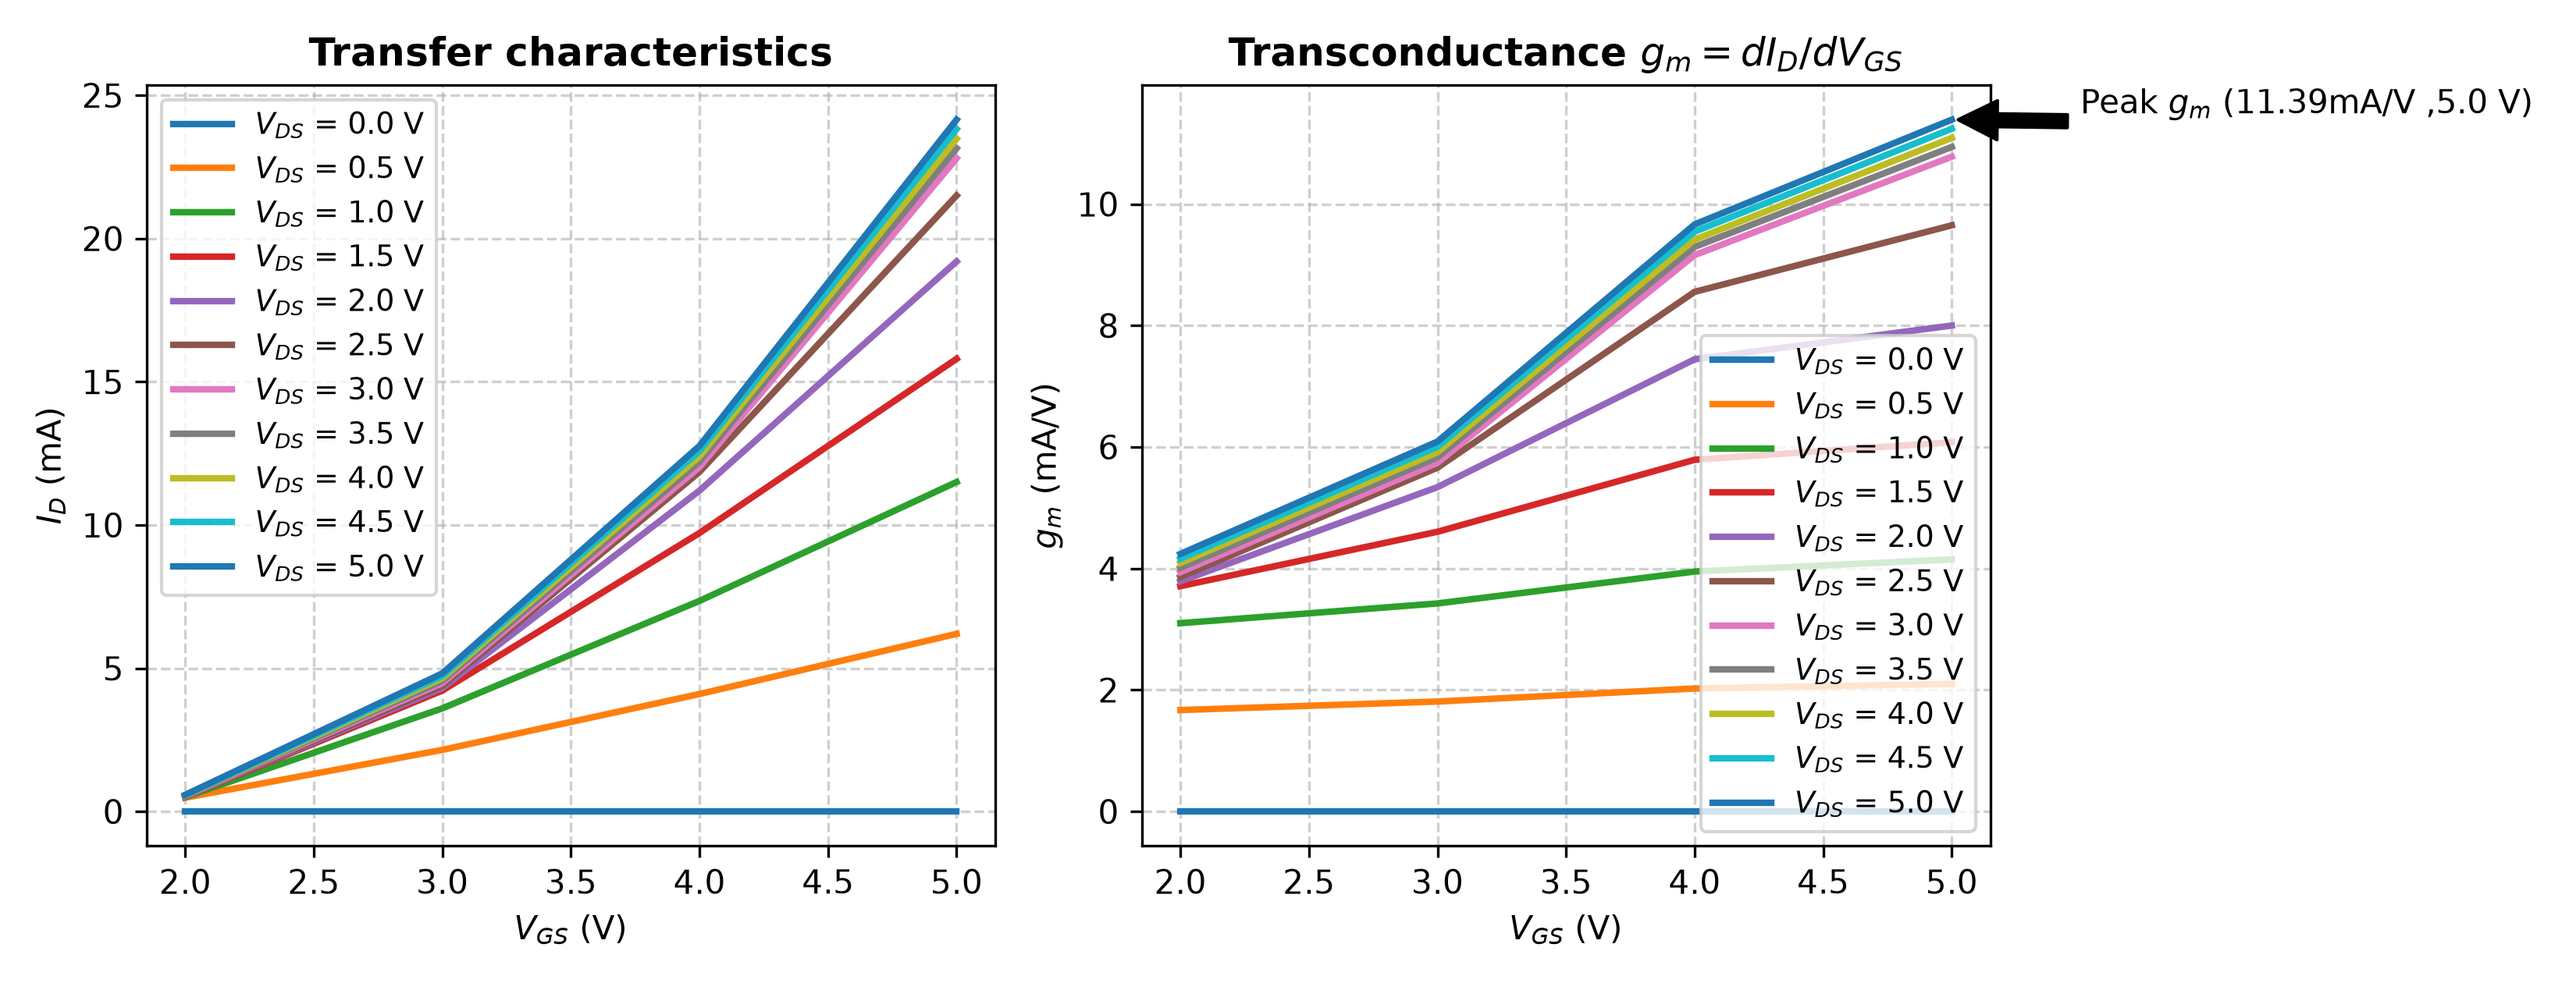
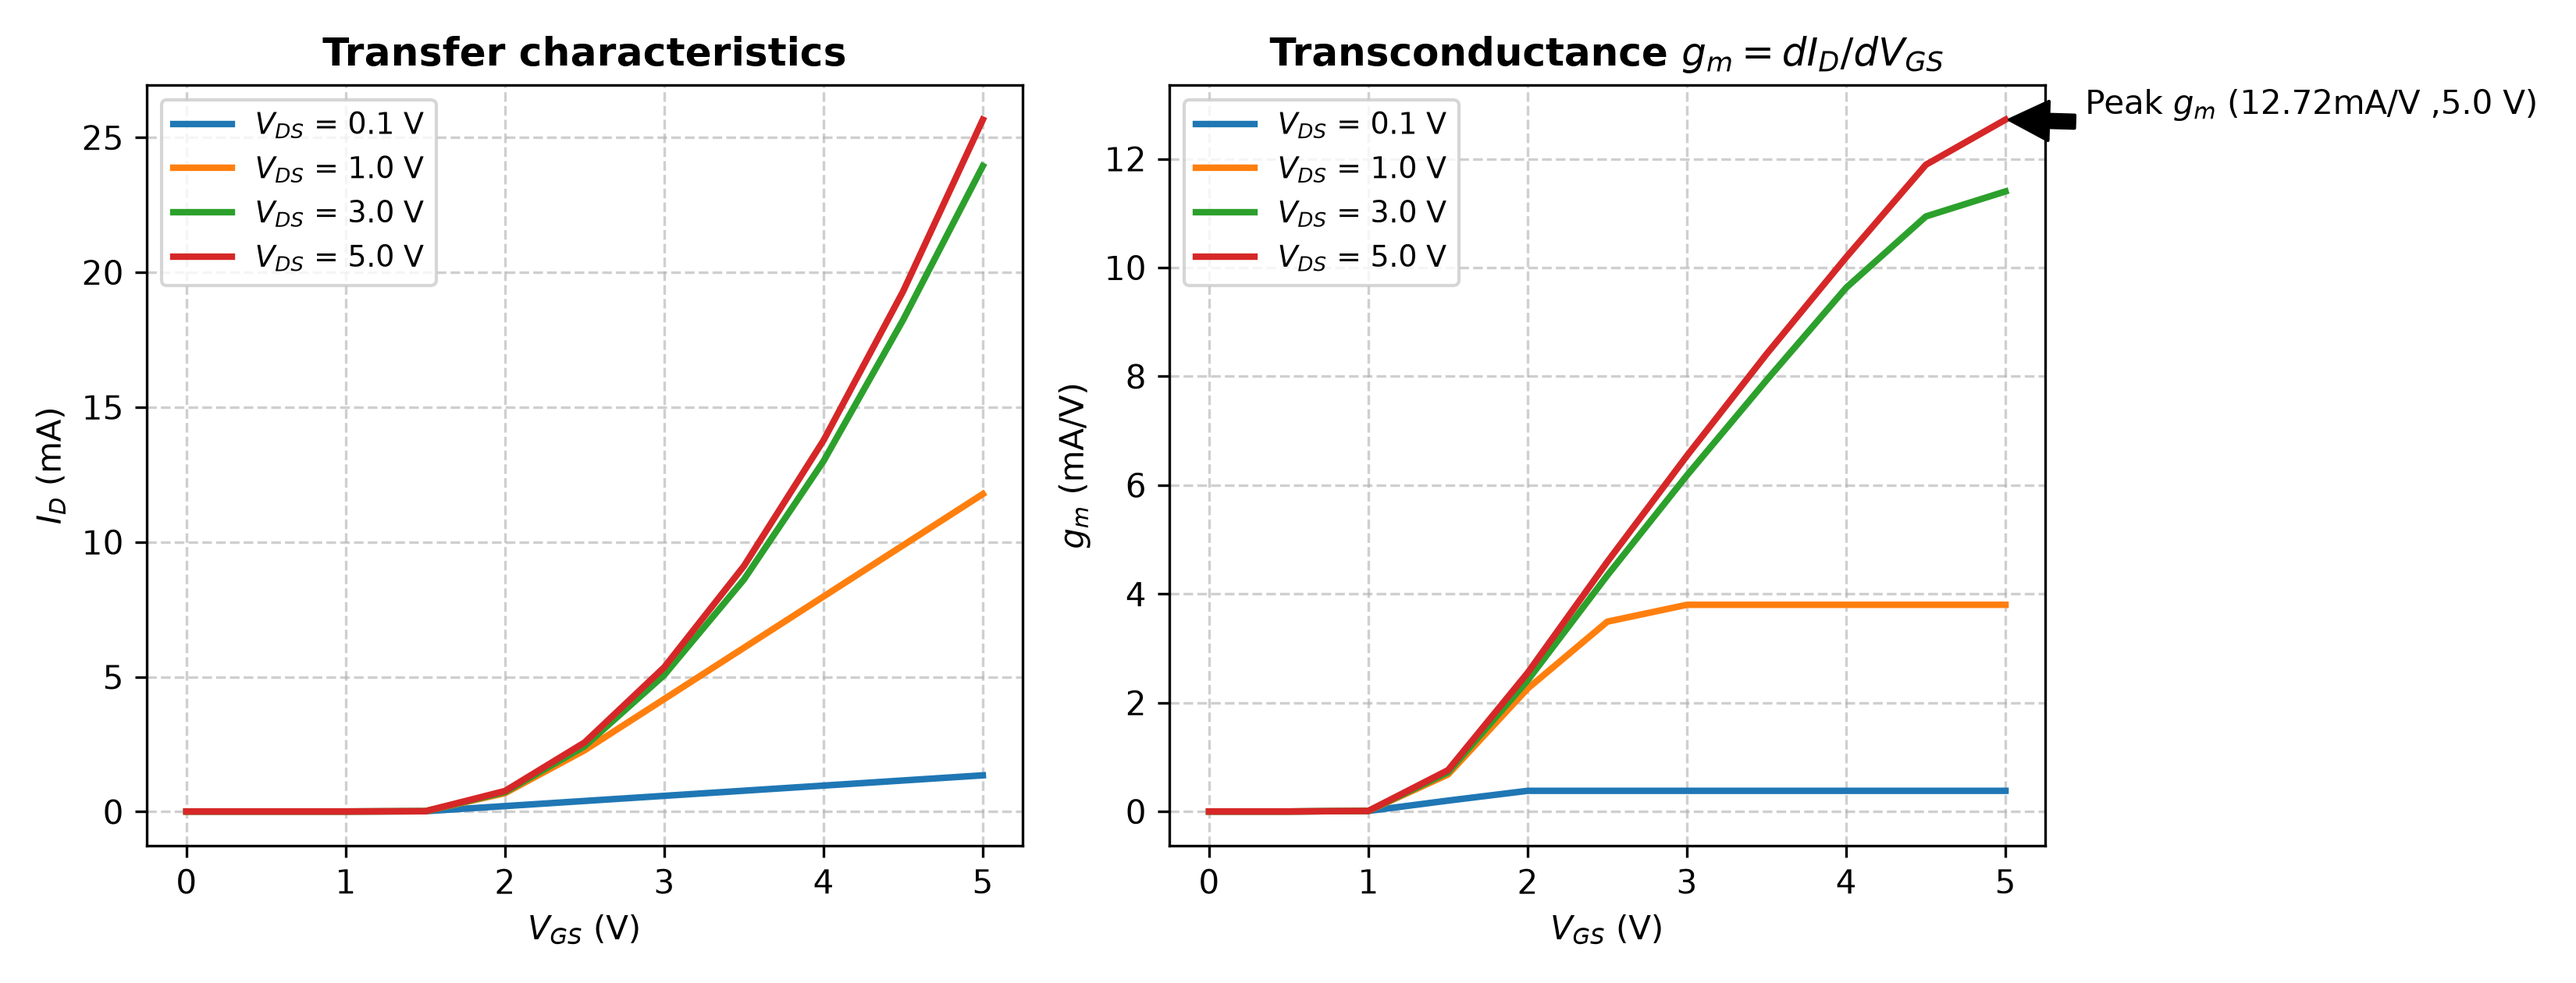
task 11 done

diff --git a/t12.py b/t12.py
@@ -1,0 +1,60 @@
+import pandas as pd
+import matplotlib.pyplot as plt
+import numpy as np
+df = pd.read_csv(r'ed-1/MOSFET_ID_VDS.csv')
+
+tox = 10e-9 # 10 nm
+Na = 1e16 # 1e17 cm^-3
+qf = 1e12 # cm^-2
+w = 4*1e-6 # 4 um
+L = 0.18 * 1e-6 # 0.18 um
+un = 400 # 400 cm^2/Vs
+alGate = 4.1
+
+#SPICE-level 1
+vGs = [1,2,3]
+vDs = np.linspace(0, 4, 50)
+i_d = np.array([])
+for v_gs in vGs:
+    for v_ds in vDs:
+        if v_gs < 1:
+            i_d = np.append(i_d, 0)
+        elif v_gs >= 1 and v_ds <= (v_gs - 1):
+            i_d = np.append(i_d, un * w / L * (tox * alGate) * ((v_gs - 1) * v_ds - 0.5 * v_ds ** 2))
+        else:
+            i_d = np.append(i_d, un * w / L * (tox * alGate) * (0.5 * (v_gs - 1) ** 2))
+
+    plt.plot(vDs, i_d, label=f'$V_{{GS}}$ = {v_gs} V', linewidth=2)
+    i_d = np.array([])
+    
+plt.xlabel('$V_{DS}$ (V)')
+plt.ylabel('$I_D$ (mA)')
+plt.title('Output characteristics using spice - 1')
+plt.legend()
+plt.grid(True, linestyle='--', alpha=0.6)
+plt.tight_layout()
+plt.savefig("task12.png", dpi=350)
+plt.show()
+
+# spice level 3
+plt.figure(figsize=(10, 6)) # a new window, 10 x 6 inches
+for v_gs in vGs:
+    for v_ds in vDs:
+        if v_gs < 1:
+            i_d = np.append(i_d, 0)
+        elif v_gs >= 1 and v_ds <= (v_gs - 1):
+            i_d = np.append(i_d, un * w / L * (tox * alGate) * ((v_gs - 1) * v_ds - 0.5 * v_ds ** 2))
+        else:
+            i_d = np.append(i_d, un * w / L * (tox * alGate) * (0.5 * (v_gs - 1) ** 2))
+
+    plt.plot(vDs, i_d, label=f'$V_{{GS}}$ = {v_gs} V', linewidth=2)
+    i_d = np.array([])
+    
+plt.xlabel('$V_{DS}$ (V)')
+plt.ylabel('$I_D$ (mA)')
+plt.title('Output characteristics using spice - 1')
+plt.legend()
+plt.grid(True, linestyle='--', alpha=0.6)
+plt.tight_layout()
+plt.savefig("task12.png", dpi=350)
+plt.show()

diff --git a/t9.py b/t9.py
@@ -2,7 +2,7 @@ import pandas as pd
 import matplotlib.pyplot as plt
 import numpy as np
 
-df = pd.read_csv(r'ed-1/MOSFET_ID_VDS.csv')
+df = pd.read_csv(r'ed-1/MOSFET_ID_VGS.csv')
 
 fig, ax = plt.subplots(1,2,figsize=(11, 4.2)) 
 v_gs_gm_max = 0
@@ -11,7 +11,7 @@ v_t = np.array([]) # threshold voltage array
 for v_ds, g in df.groupby('V_DS (V)'):
     g = g.sort_values('V_GS (V)') # ALWAYS sort the sweep axis
     gm = np.gradient(g['I_D (mA)'], g['V_GS (V)']) # numerical derivative
-    v_t = np.append(v_t, np.polyfit(g['V_GS (V)'], g['I_D (mA)'], 2)[0]) 
+    v_t = np.append(v_t, np.polyfit(g['V_GS (V)'], g['I_D (mA)'], 1)[0]) 
     if gm_max < gm.max():
         gm_max = gm.max()
         v_gs_gm_max = g['V_GS (V)'].iloc[gm.argmax()]

diff --git a/readme.md b/readme.md
@@ -64,12 +64,14 @@ max     5.00000   5.000000  24.150000
 ```python
     v_t = np.array([])
     for v_ds, g in df.groupby('V_DS (V)'):
-        v_t = np.append(v_t, np.polyfit(g['V_S (V)'], g['I_D (mA)'], 2)[0])
+        v_t = np.append(v_t, np.polyfit(g['V_GS (V)'], g['I_D (mA)'], 1)[0])
     print(round(v_t.mean(), 2) ,' V is the average threshold voltage')
 
 ```
-Output = 1.11  V is the average threshold voltage
+Output = 3.07  V is the average threshold voltage
 
 # Task - 11 
 
 ![Task 11](task11.png )
+
+
